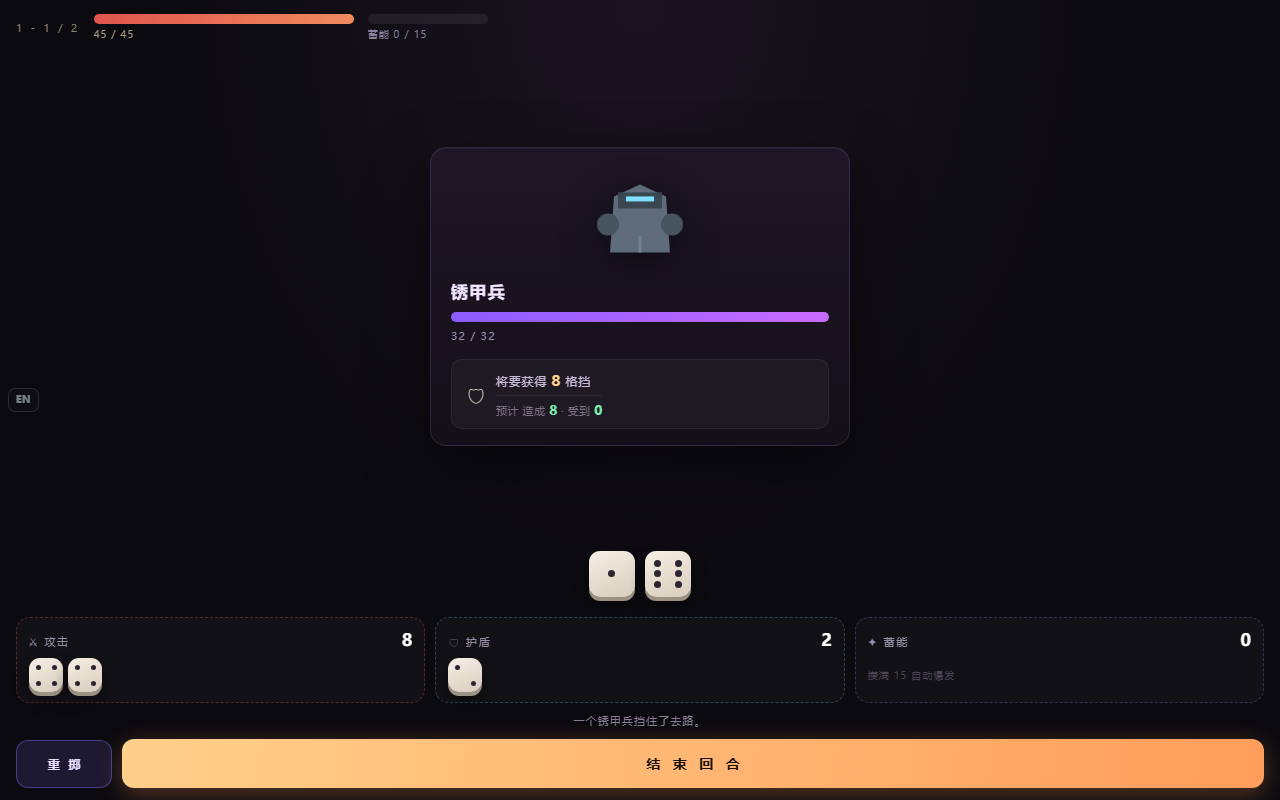
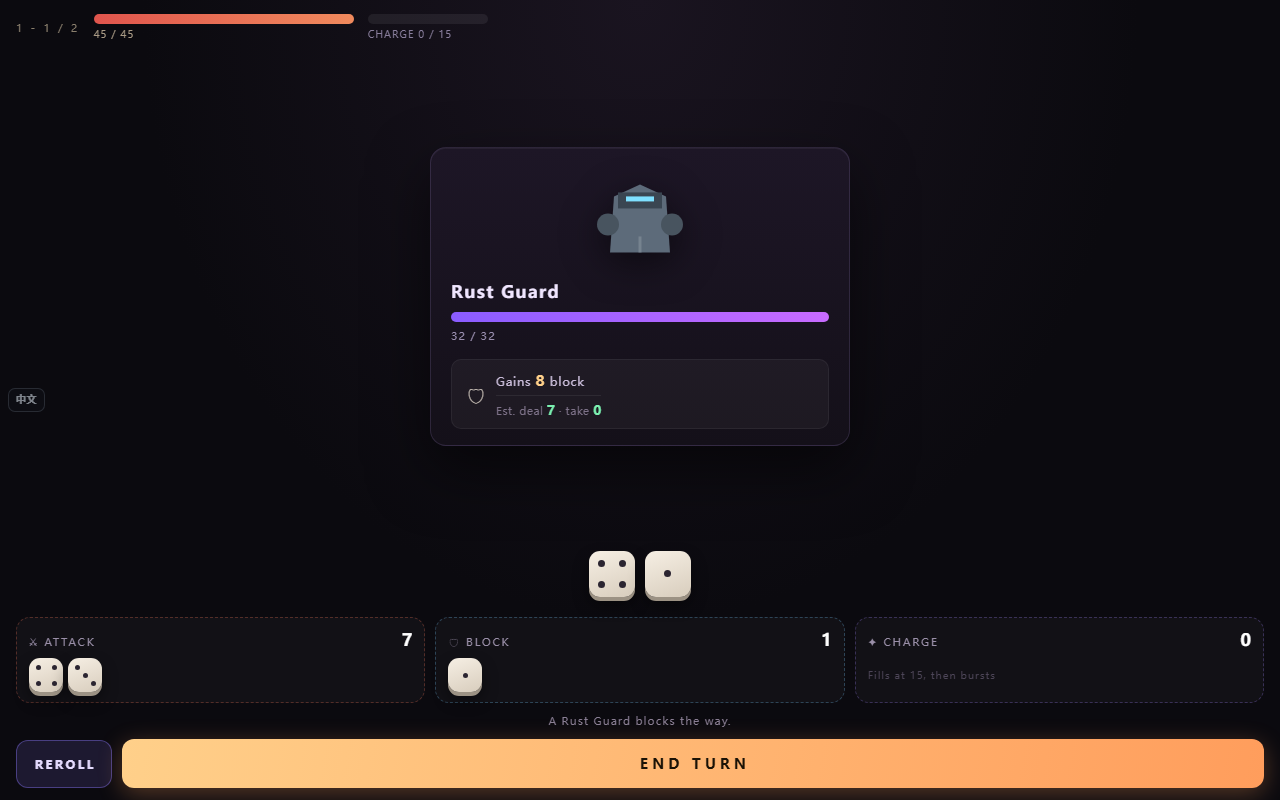
截图改为英文界面；敌人名在日志中也翻译；按钮移到左侧

diff --git a/dice-delve/index.html b/dice-delve/index.html
@@ -1275,7 +1275,7 @@ render: render, doReroll: doReroll, makeFloors: makeFloors
 
     var EXACT = {"骰 子 地 牢":"DICE DELVE","进 入 地 牢":"ENTER THE DUNGEON","继 续 上 一 局":"CONTINUE","重 开 新 局":"NEW RUN","结 束 回 合":"END TURN","重 掷":"REROLL","⚔ 攻击":"⚔ ATTACK","🛡 护盾":"🛡 BLOCK","✦ 蓄能":"✦ CHARGE","点骰子 → 点这里":"Pick a die → tap here","挡住这一击":"Block the hit","攒满 15 自动爆发":"Fills at 15, then bursts","战 利 品":"REWARDS","再 来 一 次":"PLAY AGAIN","倒 下 了":"YOU DIED","通 关":"VICTORY","敌人":"Enemy","意图":"Intent","地牢之心苏醒了。":"The dungeon heart awakens.","这一回合你什么也没做。":"You did nothing this turn.","你完全挡下了这一击":"You blocked it completely","强健体魄":"Tough Frame","多一枚骰子":"Extra Die","磨刃":"Whetstone","厚甲":"Heavy Plate","聚能":"Focus Core","干粮":"Rations","荆棘护甲":"Thorn Mail","起手之势":"Head Start","连击":"Combo","聚焦":"Focus","通道鼠":"Tunnel Rat","锈甲兵":"Rust Guard","毒囊蛛":"Venom Spider","石拳":"Stonefist","地牢之心":"Dungeon Heart","猎犬":"Hound","石墙":"Stone Wall","攻 击":"ATTACK","护 盾":"BLOCK","蓄 能":"CHARGE","骰子地牢 · DICE DELVE":"DICE DELVE"};
     var RULES = [["^第 (\\d+) 层 · 生命 (\\d+) / (\\d+) · 骰子 (\\d+)$","Floor $1 · HP $2 / $3 · dice $4"],["^第 (\\d+) 层$","Floor $1"],["^蓄能 (\\d+) / (\\d+)$","CHARGE $1 / $2"],["^格挡 (\\d+)$","Block $1"],["^预计 造成 (\\d+) · 受到 (\\d+)$","Est. deal $1 · take $2"],["^你走到了第 (\\d+) 层第 (\\d+) 场。$","You fell on floor $1, fight $2."],["^剩余生命 (\\d+) / (\\d+)$","HP left $1 / $2"]];
-    var FRAGS = [["、",", "],["或","or"],["，分配成 "," into "],["预计 造成 ","Est. deal "],[" · 受到 "," · take "],["攻击力 +","attack +"],["· 骰子","· dice"],["· 精英","· ELITE"],["自动爆发","auto-burst"],["攒满 ","Fills at "],["未知","Unknown"],["层第",", fight "],["场。","."],["骰子","dice"],["一个","A "],["每回合掷","Roll"],["颗骰子"," dice"],["分配成","into"],["敌人的下一步是公开的 —— 算好再放。","Enemy intents are public — plan around them."],["蓄能满 15 会自动爆发。","Charge reaches 15 to trigger a burst."],["最大生命 +12，并回复 12","Max HP +12 and heal 12"],["每回合多掷 1 颗（最多 7 颗）","one more die per turn (max 7)"],["攻击时额外 +2 伤害","attacks deal +2"],["护盾时额外 +3 格挡","block gains +3"],["蓄能时额外 +2，爆发伤害 +6","charge +2, burst +6"],["立即回复 20，并 +5 最大生命","heal 20 and max HP +5"],["每次受伤，对敌人反弹 5 点伤害","reflect 5 damage when hurt"],["每回合开始获得 5 点格挡","start each turn with 5 block"],["攻击区放 3 颗以上骰子时，额外 +7 伤害","+7 damage when 3+ dice on attack"],["蓄能需求 -3，爆发来得更快","charge threshold -3, burst sooner"],["将要攻击","Attacks for"],["将要获得","Gains"],["将要强化攻击","Buffs attack"],["将要施加","Applies"],["将要穿透","Pierces for"],["无视格挡","ignores block"],["穿透造成","Pierce deals"],["你中毒了（","Poisoned ("],["中毒造成","Poison deals"],["挡住了去路。","blocks the way."],["造成","deal"],["伤害"," dmg"],["获得","gain"],["蓄能","charge"],["爆发","burst"],["中毒","poison"],["生命","HP"],["层","F"],["攻击","attack"],["护盾","block"],[" 格挡"," block"],["格挡","block"]];
+    var FRAGS = [["、",", "],["或","or"],["，分配成 "," into "],["一个","A "],["挡住了去路。"," blocks the way."],["预计 造成 ","Est. deal "],[" · 受到 "," · take "],["攻击力 +","attack +"],["· 骰子","· dice"],["· 精英","· ELITE"],["自动爆发","auto-burst"],["攒满 ","Fills at "],["未知","Unknown"],["层第",", fight "],["场。","."],["骰子","dice"],["一个","A "],["每回合掷","Roll"],["颗骰子"," dice"],["分配成","into"],["敌人的下一步是公开的 —— 算好再放。","Enemy intents are public — plan around them."],["蓄能满 15 会自动爆发。","Charge reaches 15 to trigger a burst."],["最大生命 +12，并回复 12","Max HP +12 and heal 12"],["每回合多掷 1 颗（最多 7 颗）","one more die per turn (max 7)"],["攻击时额外 +2 伤害","attacks deal +2"],["护盾时额外 +3 格挡","block gains +3"],["蓄能时额外 +2，爆发伤害 +6","charge +2, burst +6"],["立即回复 20，并 +5 最大生命","heal 20 and max HP +5"],["每次受伤，对敌人反弹 5 点伤害","reflect 5 damage when hurt"],["每回合开始获得 5 点格挡","start each turn with 5 block"],["攻击区放 3 颗以上骰子时，额外 +7 伤害","+7 damage when 3+ dice on attack"],["蓄能需求 -3，爆发来得更快","charge threshold -3, burst sooner"],["将要攻击","Attacks for"],["将要获得","Gains"],["将要强化攻击","Buffs attack"],["将要施加","Applies"],["将要穿透","Pierces for"],["无视格挡","ignores block"],["穿透造成","Pierce deals"],["你中毒了（","Poisoned ("],["中毒造成","Poison deals"],["挡住了去路。","blocks the way."],["造成","deal"],["伤害"," dmg"],["获得","gain"],["蓄能","charge"],["爆发","burst"],["中毒","poison"],["生命","HP"],["层","F"],["攻击","attack"],["护盾","block"],[" 格挡"," block"],["格挡","block"],["通道鼠","Tunnel Rat"],["锈甲兵","Rust Guard"],["毒囊蛛","Venom Spider"],["石拳","Stonefist"],["地牢之心","Dungeon Heart"],["猎犬","Hound"],["石墙","Stone Wall"]];
     var RX = [];
     for (var i = 0; i < RULES.length; i++) RX.push([new RegExp(RULES[i][0]), RULES[i][1]]);
     FRAGS.sort(function (a, b) { return b[0].length - a[0].length; });
